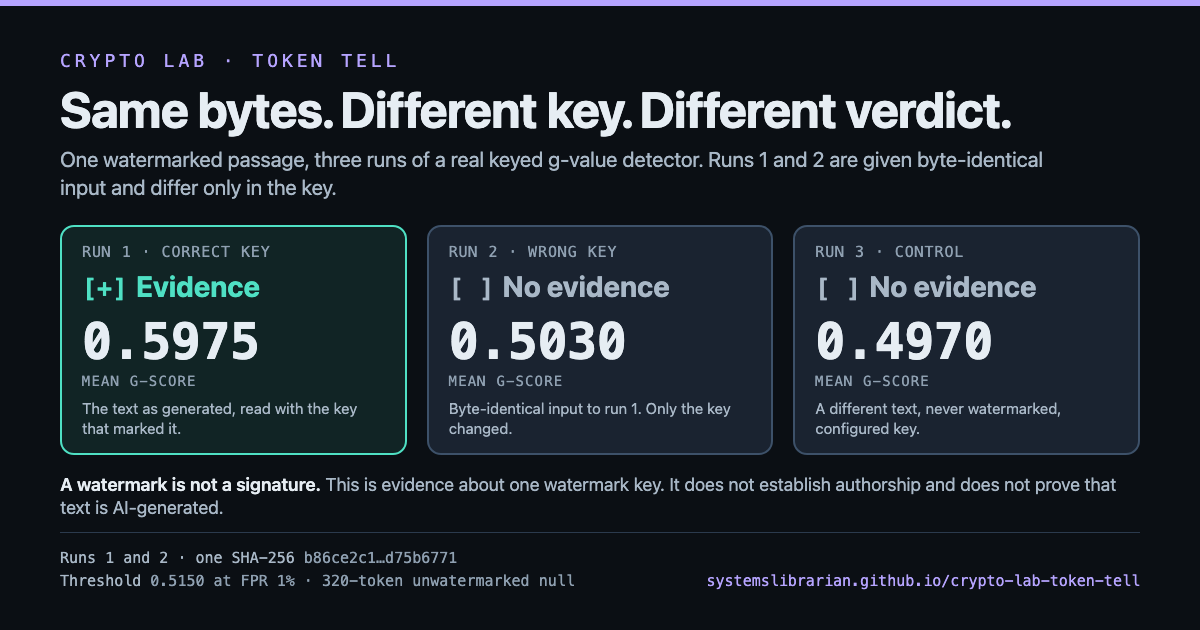
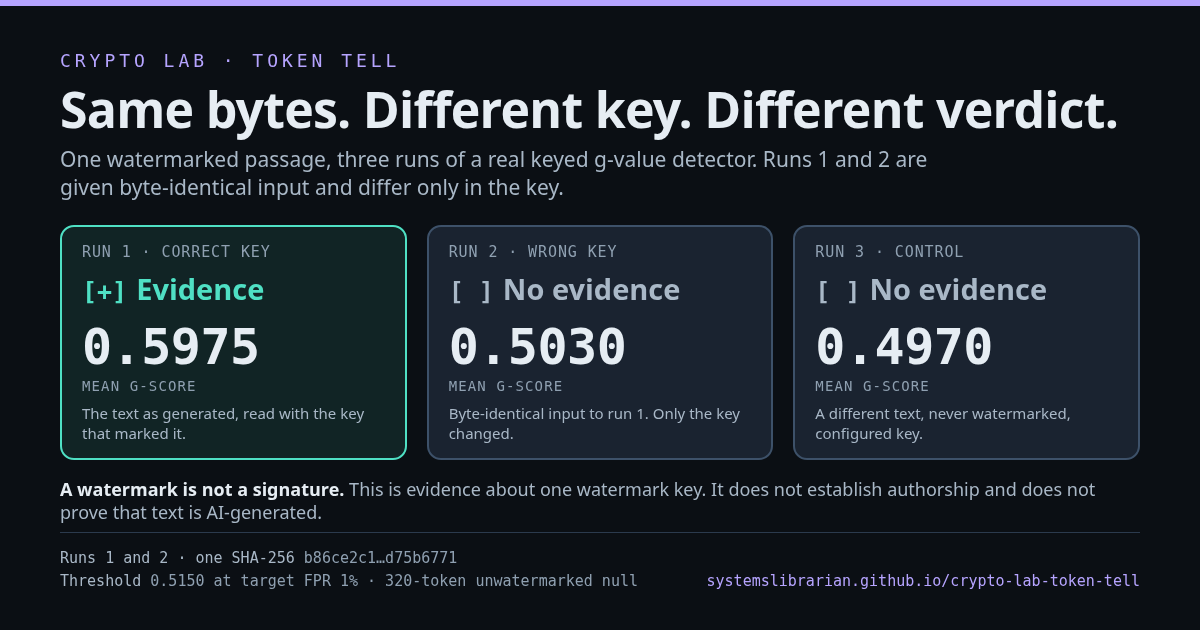
Distinguish a watermark cutoff from evidence on the scored positions

diff --git a/src/ui/score-card.ts b/src/ui/score-card.ts
@@ -34,7 +34,7 @@ export interface ThresholdInfo {
 
 type ByLength = Record<string, {
   tokens: number;
-  null_sample_count: number;
+  null_scores: readonly number[];
   null_mean: number | null;
   null_sd: number | null;
   threshold_fpr_1_percent: number | null;
@@ -44,7 +44,7 @@ type ByLength = Record<string, {
 /**
  * The decision threshold for a text of this length.
  *
- * Taken from the pinned corpus null: the top 1% of scores from unwatermarked texts of the
+ * Taken from the pinned corpus null: a cutoff estimated from unwatermarked texts of the
  * nearest length at or below this one. It is an empirical construction of this lab, for
  * this configuration, this model and this corpus. No primary source supplies a numeric
  * threshold, and this lab does not pretend otherwise.
@@ -66,13 +66,16 @@ export function thresholdForLength(tokenCount: number, fpr: 0.01 | 0.05 = 0.01):
   }
   const entry = byLength[String(chosen)];
   const value = fpr === 0.01 ? entry.threshold_fpr_1_percent : entry.threshold_fpr_5_percent;
+  const crossed = entry.null_scores.filter((score) => value !== null && score >= value).length;
+  const total = entry.null_scores.length;
   return {
     value,
     measuredAtLength: chosen,
     falsePositiveRate: fpr,
     source:
-      `top ${(fpr * 100).toFixed(0)}% of ${entry.null_sample_count} unwatermarked texts ` +
-      `of ${chosen} tokens, scored with this configuration`,
+      value === null || total === 0 ? `no calibration result at ${chosen} tokens` :
+        `under the configured key, ${crossed} of ${total} unwatermarked texts at ${chosen} tokens ` +
+        `met or exceeded this cutoff (${(100 * crossed / total).toFixed(1)}%)`,
   };
 }
 
@@ -92,7 +95,9 @@ export interface ScoreCardOptions {
   };
 }
 
-export function scoreVerdict(result: ScoreResult, threshold: ThresholdInfo): {
+export function scoreVerdict(
+  result: ScoreResult, threshold: ThresholdInfo, exact = statistics(result).exact,
+): {
   tone: VerdictTone;
   label: string;
   detail: string;
@@ -101,9 +106,9 @@ export function scoreVerdict(result: ScoreResult, threshold: ThresholdInfo): {
     return {
       tone: 'none',
       label: 'No score',
-      detail:
-        `Too short to score: ${result.tokenCount} tokens leaves no position with a full ` +
-        'context window.',
+      detail: result.candidatePositions === 0
+        ? 'The text ends before the first full context window.'
+        : 'All candidate positions were skipped. See the repeated-context and end-of-text counts below.',
     };
   }
   if (threshold.value === null) {
@@ -115,13 +120,22 @@ export function scoreVerdict(result: ScoreResult, threshold: ThresholdInfo): {
         'threshold for it and will not invent one.',
     };
   }
+  const target = `${(threshold.falsePositiveRate * 100).toFixed(0)}%`;
   if (result.score >= threshold.value) {
+    if (exact && exact.pValue > threshold.falsePositiveRate) {
+      const positions = result.scoredPositions === 1 ? '1 scored position' : `${result.scoredPositions} scored positions`;
+      return {
+        tone: 'caution',
+        label: 'Above cutoff, limited evidence',
+        detail: `The mean meets the corpus cutoff of ${fixed(threshold.value)}. With ${positions}, ` +
+          `the independent fair-coin model gives p = ${pValue(exact.pValue, exact.log10PValue)}, above the ${target} target.`,
+      };
+    }
     return {
       tone: 'evidence',
       label: 'Evidence for this key',
       detail:
-        `${fixed(result.score)} is at or above the ${(threshold.falsePositiveRate * 100).toFixed(0)}% ` +
-        `false-positive threshold of ${fixed(threshold.value)} for this configuration. ` +
+        `${fixed(result.score)} meets the cutoff of ${fixed(threshold.value)} (target ${target} false positives). ` +
         'That is evidence about this watermark configuration, not about who wrote the text.',
     };
   }
@@ -129,8 +143,8 @@ export function scoreVerdict(result: ScoreResult, threshold: ThresholdInfo): {
     tone: 'none',
     label: 'No evidence for this key',
     detail:
-      `${fixed(result.score)} is below the ${(threshold.falsePositiveRate * 100).toFixed(0)}% ` +
-      `false-positive threshold of ${fixed(threshold.value)}. This is not evidence that a ` +
+      `${fixed(result.score)} is below the cutoff of ${fixed(threshold.value)} (target ${target} false positives). ` +
+      `This is not evidence that a ` +
       'human wrote it, and not evidence that no other watermark is present.',
   };
 }
@@ -194,7 +208,7 @@ function statisticRows(
     rows.push(['z on that assumption', fixed(approximation.z, 2)]);
   }
   rows.push([
-    `Threshold at FPR ${(threshold.falsePositiveRate * 100).toFixed(0)}%`,
+    `Threshold at target FPR ${(threshold.falsePositiveRate * 100).toFixed(0)}%`,
     threshold.value === null ? 'not measured at this length' : fixed(threshold.value),
   ]);
 
@@ -213,7 +227,7 @@ function statisticRows(
 function provenanceNote(threshold: ThresholdInfo): HTMLElement {
   return el('p', { class: 'note' }, [
     `Threshold source: ${threshold.source}. `,
-    'Every threshold on this page is specific to this configuration. ',
+    threshold.value === null ? '' : 'The calibration uses the configured key and default construction. ',
     'The standard error and z are computed on the assumption that the counted ' +
       'g-values are independent fair coins; the paper argues that repeated-context ' +
       'masking makes them so, and the wrong-key null measured on this page is how that ' +
@@ -226,7 +240,8 @@ export function renderScoreCard(
   options: ScoreCardOptions,
 ): HTMLElement {
   const threshold = thresholdForLength(result.tokenCount);
-  const decision = scoreVerdict(result, threshold);
+  const computed = statistics(result);
+  const decision = scoreVerdict(result, threshold, computed.exact);
 
   return el('div', {}, [
     el('div', { class: 'panel-title' }, [
@@ -235,7 +250,7 @@ export function renderScoreCard(
     ]),
     el('p', { class: 'note', text: `${options.keyDescription} · ${options.constructionLabel}` }),
     verdict(decision.tone, decision.label, decision.detail),
-    readout(statisticRows(result, threshold, options.empirical), `${options.subject} statistics`),
+    readout(statisticRows(result, threshold, options.empirical, computed), `${options.subject} statistics`),
     provenanceNote(threshold),
   ]);
 }
@@ -284,8 +299,8 @@ function metric(label: string, value: string, major = false): HTMLElement {
 
 export function renderResultCard(result: ScoreResult, options: ResultCardOptions): ResultCard {
   const threshold = thresholdForLength(result.tokenCount);
-  const decision = scoreVerdict(result, threshold);
   const computed = statistics(result);
+  const decision = scoreVerdict(result, threshold, computed.exact);
   const { exact } = computed;
 
   const call = verdict(decision.tone, decision.label, decision.detail);
@@ -315,7 +330,7 @@ export function renderResultCard(result: ScoreResult, options: ResultCardOptions
     el('dl', { class: 'result-metrics' }, [
       figure,
       metric(
-        `Threshold at FPR ${(threshold.falsePositiveRate * 100).toFixed(0)}%`,
+        `Threshold at target FPR ${(threshold.falsePositiveRate * 100).toFixed(0)}%`,
         threshold.value === null ? 'not measured at this length' : fixed(threshold.value),
       ),
       metric(

diff --git a/src/ui/act3-entropy.ts b/src/ui/act3-entropy.ts
@@ -179,14 +179,8 @@ function renderHeadline(high: Measurement, low: Measurement): HTMLElement {
 const GPT2_EOS = 50256;
 
 /**
- * The same lesson at corpus scale, and the reason this lab's detection rate has a
- * ceiling.
- *
- * Roughly one in seven of the watermarked texts in the pinned corpus is never detected at
- * any length. They are not short. They are degenerate: GPT-2 fell into a repetition loop,
- * the repeated-context rule threw out almost every position, and there was nothing left
- * to score. A length-based reading of the detection curve would call that a length
- * problem. It is an entropy problem.
+ * Compare the cutoff outcomes for equal-length texts. Repeated contexts can
+ * leave very different numbers of scored positions at the same token count.
  */
 function renderCorpusScale(): HTMLElement {
   const output = liveRegion('Corpus-scale entropy analysis');
@@ -238,12 +232,12 @@ function renderCorpusScale(): HTMLElement {
 
     output.append(readout([
       ['Watermarked texts scored', integer(rows.length)],
-      ['Detected at FPR 1%', integer(found.length)],
-      ['Not detected', integer(missed.length)],
-      ['Detected: mean scored positions', fixed(mean(found.map((r) => r.scored)), 1)],
-      ['Not detected: mean scored positions', fixed(mean(missed.map((r) => r.scored)), 1)],
-      ['Detected: mean distinct tokens', fixed(mean(found.map((r) => r.distinct)), 1)],
-      ['Not detected: mean distinct tokens', fixed(mean(missed.map((r) => r.distinct)), 1)],
+      ['At or above corpus cutoff', integer(found.length)],
+      ['Below corpus cutoff', integer(missed.length)],
+      ['At or above cutoff: mean scored positions', fixed(mean(found.map((r) => r.scored)), 1)],
+      ['Below cutoff: mean scored positions', fixed(mean(missed.map((r) => r.scored)), 1)],
+      ['At or above cutoff: mean distinct tokens', fixed(mean(found.map((r) => r.distinct)), 1)],
+      ['Below cutoff: mean distinct tokens', fixed(mean(missed.map((r) => r.distinct)), 1)],
       ['Positions the window offered (all texts)', integer(rows[0]?.candidates ?? 0)],
     ], 'Detected against undetected'));
 
@@ -252,7 +246,7 @@ function renderCorpusScale(): HTMLElement {
         el('td', { class: 'num', text: fixed(row.score) }),
         el('td', { class: 'num', text: integer(row.scored) }),
         el('td', { class: 'num', text: integer(row.distinct) }),
-        el('td', { text: row.detected ? 'detected' : 'not detected' }),
+        el('td', { text: row.detected ? 'meets cutoff' : 'below cutoff' }),
       ]));
 
     output.append(
@@ -263,16 +257,14 @@ function renderCorpusScale(): HTMLElement {
             el('th', { class: 'num', text: 'Score' }),
             el('th', { class: 'num', text: 'Scored positions' }),
             el('th', { class: 'num', text: 'Distinct tokens' }),
-            el('th', { text: 'Verdict at FPR 1%' }),
+            el('th', { text: 'Corpus cutoff (1% target)' }),
           ])]),
           el('tbody', {}, worst),
         ]),
       ]),
       el('p', { class: 'note' }, [
-        'Every text in this corpus is 320 tokens long, so length explains none of the ' +
-        'difference. What separates them is how many distinct tokens the model produced: ' +
-        'the undetected ones collapsed into repetition loops, the repeated-context rule ' +
-        'discarded almost every position, and there was nothing left to average.',
+        'Every text here has 320 tokens. A repeated context is counted only once. ' +
+        'The table shows how many positions contributed to each mean and whether it met the corpus cutoff.',
       ]),
       el('p', { class: 'note' }, [
         'The table also shows the other edge of the same problem. A text with one scored ' +
@@ -283,9 +275,8 @@ function renderCorpusScale(): HTMLElement {
         'positions.',
       ]),
       consequence(
-        'Held the length fixed at 320 tokens and varied only the entropy',
-        `${integer(missed.length)} of ${integer(rows.length)} watermarked texts still went ` +
-        'undetected.',
+        'Compared watermarked texts of the same length (320 tokens)',
+        `${integer(missed.length)} of ${integer(rows.length)} watermarked texts scored below the corpus cutoff.`,
       ),
     );
   };

diff --git a/src/ui/act2-detector.ts b/src/ui/act2-detector.ts
@@ -448,8 +448,10 @@ function renderStrengthCurve(): HTMLElement {
     live.append(readout([
       ['Recomputed at length', `${integer(length)} tokens`],
       ['Unwatermarked texts re-scored', integer(nullScores.length)],
-      ['Threshold at FPR 1% (recomputed)', fixed(threshold)],
-      ['Threshold at FPR 1% (pinned)', fixed(pinned.threshold_fpr_1_percent ?? Number.NaN)],
+      ['Threshold at target FPR 1% (recomputed)', fixed(threshold)],
+      ['Threshold at target FPR 1% (pinned)', fixed(pinned.threshold_fpr_1_percent ?? Number.NaN)],
+      ['Unwatermarked texts at or above cutoff',
+        `${nullScores.filter((score) => score >= threshold).length} of ${nullScores.length}`],
       ['Watermarked texts re-scored', integer(markedScores.length)],
       ['Detection rate (recomputed)', tpr === null ? 'n/a' : `${(tpr * 100).toFixed(1)}%`],
       ['Detection rate (pinned)',
@@ -505,17 +507,17 @@ function renderStrengthCurve(): HTMLElement {
           el('th', { class: 'num', text: 'Unmarked mean' }),
           el('th', { class: 'num', text: 'Unmarked sd (measured)' }),
           el('th', { class: 'num', text: 'sd if independent' }),
-          el('th', { class: 'num', text: 'Threshold @ FPR 1%' }),
+          el('th', { class: 'num', text: 'Threshold @ target FPR 1%' }),
           el('th', { class: 'num', text: 'Marked mean' }),
-          el('th', { class: 'num', text: 'Detection rate @ FPR 1%' }),
+          el('th', { class: 'num', text: 'Detection rate @ target FPR 1%' }),
         ])]),
         el('tbody', {}, rows),
       ]),
     ]),
     el('p', { class: 'note' }, [
       `Both corpora hold ${integer(nullCorpus.corpus_size)} texts. A 1% threshold estimated ` +
-      'from that many samples rests on the single highest of them, so the shortest rows are ' +
-      'the least trustworthy in the table — and a detection rate of 100% here means 48 of ' +
+      'from this sample is the maximum unmarked score. Every tie at the maximum counts as a ' +
+      'false positive on these calibration texts. A detection rate of 100% here means 48 of ' +
       '48, which is a different claim from a rate of 1. Where the measured spread runs ' +
       'above the independence prediction, the exact p-value in the score card is optimistic ' +
       'at that length.',

diff --git a/index.html b/index.html
@@ -39,7 +39,7 @@
     />
     <meta
       property="og:image:alt"
-      content="One detector, three runs against the same 1% false-positive threshold: the watermarked passage under the correct key, evidence, mean g-score 0.5975; the byte-identical passage under a wrong key, no evidence, 0.5030; a different, unwatermarked text, no evidence, 0.4970. Runs 1 and 2 share one SHA-256. Evidence about one watermark key — not proof of authorship, and not proof that text is AI-generated."
+      content="One detector, three runs against the same cutoff targeting 1% false positives: the watermarked passage under the correct key, evidence, mean g-score 0.5975; the byte-identical passage under a wrong key, no evidence, 0.5030; a different, unwatermarked text, no evidence, 0.4970. Runs 1 and 2 share one SHA-256. Evidence about one watermark key — not proof of authorship, and not proof that text is AI-generated."
     />
     <meta property="og:image:type" content="image/png" />
     <meta property="og:image:width" content="1200" />
@@ -56,7 +56,7 @@
     />
     <meta
       name="twitter:image:alt"
-      content="One detector, three runs against the same 1% false-positive threshold: the watermarked passage under the correct key, evidence, mean g-score 0.5975; the byte-identical passage under a wrong key, no evidence, 0.5030; a different, unwatermarked text, no evidence, 0.4970. Runs 1 and 2 share one SHA-256. Evidence about one watermark key — not proof of authorship, and not proof that text is AI-generated."
+      content="One detector, three runs against the same cutoff targeting 1% false positives: the watermarked passage under the correct key, evidence, mean g-score 0.5975; the byte-identical passage under a wrong key, no evidence, 0.5030; a different, unwatermarked text, no evidence, 0.4970. Runs 1 and 2 share one SHA-256. Evidence about one watermark key — not proof of authorship, and not proof that text is AI-generated."
     />
     <link rel="manifest" href="./manifest.webmanifest" />
     <!--

diff --git a/e2e/claims.spec.ts b/e2e/claims.spec.ts
@@ -58,7 +58,7 @@ const CALCULATION_TERMS = [
   'p-value (exact tail)',
   'Standard error if independent',
   'z on that assumption',
-  'Threshold at FPR 1%',
+  'Threshold at target FPR 1%',
 ];
 
 /** The value beside a term, read out of any definition list inside `scope`. */
@@ -228,6 +228,18 @@ test('the detector retires a verdict when the text changes, and a no-op does not
     await expect(page.locator('#act-2 [data-retired]')).toHaveCount(0);
     await expect(page.locator('#act-2 .verdict').first()).toBeVisible();
   });
+
+test('a tied calibration cutoff and a single scored position are identified', async ({ page }) => {
+  await page.goto(LAB);
+  const act = page.locator('#act-2');
+  await page.locator('#detector-input').fill(' library'.repeat(100));
+  await act.getByRole('button', { name: 'Score it' }).click();
+  expect(await readout(act, 'Tokens')).toBe('100');
+  expect(await readout(act, 'Scored positions')).toBe('1');
+  await expect(act.locator('.verdict').first()).toContainText('Above cutoff, limited evidence');
+  await expect(act.locator('.verdict').first()).toContainText('p = 0.428');
+  await expect(act).toContainText('2 of 48 unwatermarked texts at 100 tokens met or exceeded this cutoff (4.2%)');
+});
 
 test('a short text is refused a score rather than given a meaningless one', async ({ page }) => {
   await page.goto(LAB);
@@ -484,7 +496,7 @@ test('stripping and regeneration are shown as different failures', async ({ page
   const after = Number(await readout(regen, 'Score after'));
   expect(before).toBeCloseTo(REFERENCE.watermarkedScore, 3);
   // The regeneration panel's verdict must agree with its own numbers.
-  const threshold = Number(await readout(regen, 'Threshold at FPR 1%'));
+  const threshold = Number(await readout(regen, 'Threshold at target FPR 1%'));
   const survived = after >= threshold;
   await expect(regen.locator('.verdict')).toContainText(
     survived ? 'Evidence survived' : 'Evidence did not survive');

diff --git a/src/ui/act7-compare.ts b/src/ui/act7-compare.ts
@@ -123,7 +123,7 @@ const ROWS: ComparisonRow[] = [
     signature: { text: 'binary', tone: 'yes' },
     c2pa: { text: 'binary for integrity; trust is a separate judgement', tone: 'partial' },
     detail:
-      'Every watermark verdict on this page carries a threshold and a false-positive rate ' +
+      'Every watermark verdict on this page carries a threshold and a target false-positive rate ' +
       'because it has to. The signature verdicts carry neither, because there is nothing ' +
       'to tune: the bytes either verify or they do not.',
   },
@@ -675,7 +675,7 @@ function renderStripVsRegenerate(): HTMLElement {
       readout([
         ['Score before', fixed(before.score)],
         ['Score after', fixed(after.score)],
-        ['Threshold at FPR 1%', fixed(threshold.value ?? Number.NaN)],
+        ['Threshold at target FPR 1%', fixed(threshold.value ?? Number.NaN)],
         ['Tokens before', integer(before.tokenCount)],
         ['Tokens after', integer(after.tokenCount)],
         ['Scored positions after', integer(after.scoredPositions)],

diff --git a/src/ui/act4-attacks.ts b/src/ui/act4-attacks.ts
@@ -87,7 +87,7 @@ function renderHeadline(entry: PinnedAttack): HTMLElement {
       class: 'act-headline-detail',
       text: `Mean g-score after the paraphrase, ${direction} ${fixed(before)} before it, ` +
         `against a threshold of ${fixed(entry.threshold.value ?? Number.NaN)} at a 1% ` +
-        'false-positive rate.',
+        'target false-positive rate.',
     }),
     consequence(
       'Rewrote the text with a real model, keeping the meaning',
@@ -429,7 +429,7 @@ function renderPinnedAttacks(pinned: PinnedAttack[]): { node: HTMLElement; reset
           el('th', { class: 'num', text: 'After' }),
           el('th', { class: 'num', text: 'Change' }),
           el('th', { class: 'num', text: 'Scored positions' }),
-          el('th', { class: 'num', text: 'Threshold @ 1%' }),
+          el('th', { class: 'num', text: 'Threshold @ 1% target' }),
           el('th', { text: 'Verdict' }),
         ])]),
         el('tbody', {}, rows),

diff --git a/src/ui/reference.ts b/src/ui/reference.ts
@@ -200,7 +200,7 @@ const LIMITATIONS: string[] = [
   'configuration published here and nothing else.',
   'Every threshold on this page is specific to this configuration, this model and this ' +
   'corpus of 48 texts per class. A 1% threshold estimated from 48 samples rests on the ' +
-  'single highest of them.',
+  'highest score. All texts tied there meet the cutoff.',
   'The thresholds are indexed by token count, while the evidence is indexed by scored ' +
   'positions. For a degenerate text these diverge sharply, which Act III measures rather ' +
   'than hides.',

diff --git a/docs/MATH.md b/docs/MATH.md
@@ -202,12 +202,14 @@ All figures below are for this configuration — `ngram_len = 5`, 30 keys,
 `context_history_size = 1024`, `N = 2`, GPT-2 at temperature 1.0 and top-k 40 — and for no
 other. They were produced by `tools/` and are committed under `src/data/pinned/`.
 
-- Detection rate at a 1% false-positive threshold rises from roughly 56% at 10 tokens to
+- Detection rate at a cutoff targeting a 1% false-positive rate rises from roughly 56% at 10 tokens to
   roughly 85% at 150 tokens, and then plateaus.
-- The plateau is not a length effect. Around one in seven watermarked texts in the corpus
-  collapses into a repetition loop; the repeated-context rule then discards almost every
-  position, and there is nothing left to score. Those texts are never detected at any
-  length.
+- At 100 tokens, two of 48 unmarked calibration texts tie at the cutoff. With the
+  inclusive comparison, the sample false-positive rate is 4.2%. The population rate is unknown.
+- Repeated contexts leave fewer scored positions. Repeating the single token “ library”
+  100 times leaves one scored position. Its 16 successes across 30 layers meet the
+  length-based cutoff, but an independent fair-coin model gives an upper-tail probability
+  of 0.428. The detector shows this disagreement alongside the score.
 - Back-translation (English → German → English, Helsinki-NLP opus-mt) degrades the score
   but leaves it above the threshold. Paraphrase (a T5 paraphraser, sentence by sentence)
   takes it to the null. Both transformations are committed with the exact models,

diff --git a/README.md b/README.md
@@ -403,7 +403,7 @@ That regenerates five committed files in `public/`: `og.png` (1200x630), `icon.s
 `icon-180.png`, `icon-192.png` and `icon-512.png` rasterised from it.
 
 The preview card is the experiment, not a picture of it. Every figure on it — the three
-mean g-scores, the 1% false-positive threshold, and the SHA-256 that runs 1 and 2 share —
+mean g-scores, the cutoff targeting a 1% false-positive rate, and the SHA-256 that runs 1 and 2 share —
 is read out of `src/data/pinned/` at generation time, and the verdicts are derived by
 comparing each score against the threshold rather than typed in. If a pinned value is
 missing the script stops and names the path it wanted; if a score ever fell on the wrong
